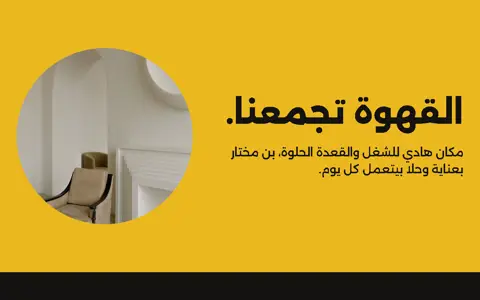
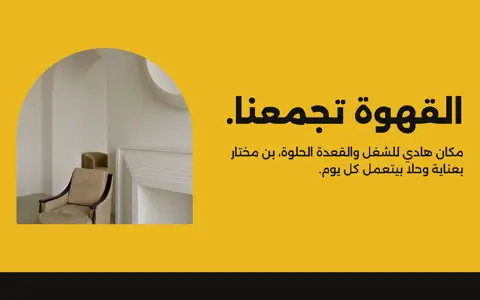
Factory: 9 more pieces after design-skill effects, a shape language (round, arch, sharp, soft, organic), real features

Changed region(s): [[0.25, 0.48, 0.4062, 0.75], [0.0312, 0.48, 0.1875, 0.75]]

diff --git a/weblume/factory/pieces/sections-skills.js b/weblume/factory/pieces/sections-skills.js
@@ -1,0 +1,157 @@
+/* Pieces written for Weblume after effect ideas in the design skills (React Bits effects, ui-ux-pro-max motion presets):
+   original vanilla code, the ideas only. Arabic is animated word by word, never letter by letter (letters must stay joined). */
+(function (P) {
+  var E = function (s) { return SITEKIT.esc(s); };
+  var img = function (src, alt, extra) { return src ? '<img src="' + E(src) + '" alt="' + E(alt || "") + '" loading="lazy"' + (extra || "") + ">" : ""; };
+  var words = function (text, cls) { // each word in its own span with a growing delay
+    return String(text || "").split(/\s+/).filter(Boolean).map(function (w, i) { return '<span class="' + cls + '" style="--w:' + i + '">' + E(w) + "</span>"; }).join(" ");
+  };
+  var items = function (S) { var a = []; (S.menu || []).forEach(function (c) { (c.items || []).forEach(function (i) { a.push(i); }); }); return a; };
+  var onScroll = function (fn) { var q = false; addEventListener("scroll", function () { if (!q) { q = true; requestAnimationFrame(function () { q = false; fn(); }); } }, {passive: true}); addEventListener("resize", fn); fn(); };
+
+  P["hero-arch"] = { // one photo in a tall arched window, the headline split above and below it
+    css: ".har{min-height:calc(100svh - var(--nav));display:grid;place-items:center;text-align:center;gap:clamp(14px,2.4vh,24px);padding:clamp(24px,5vh,56px) var(--gut)}" +
+      ".har h1{font-size:clamp(40px,7.4vw,124px);line-height:1}.har .win{width:min(70vw,360px);aspect-ratio:3/4;border-radius:999px 999px 24px 24px;overflow:hidden;background:var(--surface)}" +
+      ".har p{max-width:30em;color:var(--muted);font-size:var(--lead);line-height:1.4}@media (min-width:860px){.har{grid-template-columns:1fr auto 1fr;text-align:start}.har h1:last-of-type{text-align:end}.har p{grid-column:1/-1;text-align:center;margin-inline:auto}}",
+    render: function (S, t) {
+      var l = S.heroLines || [S.name, S.tagline], m = S.media || {};
+      return '<section class="har" id="top"><h1 class="rise">' + E(l[0]) + '</h1><div class="win rise" style="--i:1">' + img(m.heroImg, S.name) + '</div><h1 class="rise" style="--i:2">' +
+        E(l[1] || S.tagline || "") + '</h1><p class="rise" style="--i:3">' + E(S.lede) + ' <br><a class="btn a" style="margin-top:18px" href="#menu">' + t.see + "</a></p></section>";
+    }
+  };
+  P["hero-words"] = { // the headline arrives word by word, three round photos float around it
+    css: ".hwd{position:relative;min-height:calc(100svh - var(--nav));display:grid;place-items:center;text-align:center;padding:8vh var(--gut);overflow:hidden}" +
+      ".hwd h1{font-size:clamp(44px,8vw,140px);line-height:1.05;max-width:12em;position:relative;z-index:2;text-shadow:0 2px 30px var(--ink),0 0 2px var(--ink)}.hwd p{position:relative;z-index:2;margin-top:20px;font-size:var(--lead);color:var(--muted)}" +
+      ".hwd .wd{display:inline-block;opacity:0;transform:translateY(.4em);filter:blur(8px);transition:opacity .7s,transform .7s cubic-bezier(.2,.7,.2,1),filter .7s;transition-delay:calc(var(--w)*110ms)}" +
+      ".hwd.on .wd{opacity:1;transform:none;filter:none}.hwd figure{position:absolute;width:clamp(110px,16vw,240px);aspect-ratio:1;z-index:1;will-change:transform}" +
+      ".hwd figure:nth-of-type(1){top:4%;inset-inline-start:2%;opacity:.85}.hwd figure:nth-of-type(2){bottom:10%;inset-inline-start:14%;width:clamp(90px,11vw,170px)}.hwd figure:nth-of-type(3){bottom:6%;inset-inline-end:3%;width:clamp(120px,16vw,240px);opacity:.85}" +
+      "@media (max-width:700px){.hwd figure{opacity:.55}}@media (prefers-reduced-motion:reduce){.hwd .wd{opacity:1;transform:none;filter:none;transition:none}}",
+    render: function (S, t) {
+      var m = S.media || {}, ph = [m.heroImg].concat((m.gallery || []).map(function (g) { return g.src; })).filter(Boolean).slice(0, 3);
+      return '<section class="hwd" id="top"><div><h1>' + words((S.heroLines || [S.tagline]).join(" "), "wd") + "</h1><p>" + E(S.lede) +
+        '</p><p><a class="btn a" href="#menu">' + t.see + "</a></p></div>" + ph.map(function (p) { return '<figure class="disc">' + img(p, "") + "</figure>"; }).join("") + "</section>";
+    },
+    init: function () {
+      var s = document.querySelector(".hwd"); if (!s) return;
+      setTimeout(function () { s.classList.add("on"); }, 120);
+      var f = s.querySelectorAll("figure");
+      onScroll(function () { var y = scrollY; [].forEach.call(f, function (el, i) { el.style.transform = "translateY(" + (y * (i + 1) * -.08) + "px)"; }); });
+    }
+  };
+  P["hero-layers"] = { // three photos at different depths: they part as the page scrolls
+    css: ".hly{position:relative;height:160vh}.hly .stage{display:grid;place-items:center}.hly figure{position:absolute;border-radius:var(--r-card);overflow:hidden;background:var(--surface);will-change:transform}" +
+      ".hly .l1{width:min(46vw,560px);aspect-ratio:4/5;z-index:1}.hly .l2{width:min(28vw,320px);aspect-ratio:1;inset-inline-start:6%;top:18%;z-index:2}.hly .l3{width:min(24vw,280px);aspect-ratio:3/4;inset-inline-end:6%;bottom:12%;z-index:2}" +
+      ".hly .txt{position:relative;z-index:3;text-align:center;padding:0 var(--gut)}.hly h1{font-size:clamp(44px,8.6vw,150px);text-shadow:0 4px 40px #0009}.hly p{font-size:var(--lead);margin-top:14px;text-shadow:0 2px 20px #000a}" +
+      "@media (max-width:700px){.hly .l1{width:78vw}.hly .l2,.hly .l3{width:34vw}}",
+    render: function (S, t) {
+      var m = S.media || {}, g = (m.gallery || []).map(function (x) { return x.src; });
+      return '<section class="pin hly" id="top"><div class="stage"><figure class="l1">' + img(m.heroImg || g[0], S.name) + '</figure><figure class="l2">' + img(g[0] || m.heroImg, "") +
+        '</figure><figure class="l3">' + img(g[1] || m.heroImg, "") + '</figure><div class="txt"><h1>' + E((S.heroLines || [S.name])[0]) + "</h1><p>" + E(S.lede) +
+        '</p><p style="margin-top:22px"><a class="btn a" href="#menu">' + t.see + "</a></p></div></div></section>";
+    },
+    init: function () {
+      var K = SITEKIT, s = document.querySelector(".hly"); if (!s || K.reduce) return;
+      var l = s.querySelectorAll("figure"), dir = document.documentElement.dir === "rtl" ? -1 : 1;
+      onScroll(function () {
+        var p = K.progress(s);
+        l[0].style.transform = "scale(" + (1 + p * .15) + ")";
+        l[1].style.transform = "translate(" + (-dir * p * 18) + "vw," + (-p * 30) + "vh) rotate(" + (-p * 8) + "deg)";
+        l[2].style.transform = "translate(" + (dir * p * 18) + "vw," + (p * 30) + "vh) rotate(" + (p * 8) + "deg)";
+      });
+    }
+  };
+  P["about-badge"] = { // the about text beside a photo stamped with a slowly turning circular badge
+    css: ".abg{padding:clamp(72px,10vw,160px) var(--gut);display:grid;gap:clamp(32px,5vw,72px);align-items:center;background:var(--paper);color:var(--ink)}" +
+      ".abg .ph{position:relative;width:min(100%,520px);justify-self:center}.abg .ph figure{aspect-ratio:4/5;background:var(--surface)}" +
+      ".abg svg{position:absolute;width:clamp(120px,14vw,170px);inset-inline-end:-24px;top:-24px;animation:spin 18s linear infinite}" +
+      ".abg text{font:700 13px var(--text);letter-spacing:.18em;fill:var(--ink)}.abg circle{fill:var(--accent)}@keyframes spin{to{transform:rotate(360deg)}}" +
+      ".abg h2{color:var(--accent);font-size:var(--head)}.abg p{font:500 clamp(20px,2vw,30px)/1.5 var(--display);margin-top:18px;max-width:24em}" +
+      "@media (min-width:860px){.abg{grid-template-columns:5fr 7fr}}@media (prefers-reduced-motion:reduce){.abg svg{animation:none}}",
+    render: function (S, t) {
+      var m = S.media || {}, ring = (E(S.word || S.name) + " • " + E(S.tagline || "") + " • ").repeat(2);
+      return '<section class="abg" id="about"><div class="ph rise"><figure class="loop">' + img((m.about || {}).src || m.heroImg, S.name) +
+        '</figure><svg viewBox="0 0 200 200" aria-hidden="true"><circle cx="100" cy="100" r="100"/><path id="ring" fill="none" d="M100,100 m-72,0 a72,72 0 1,1 144,0 a72,72 0 1,1 -144,0"/>' +
+        '<text><textPath href="#ring">' + ring + '</textPath></text></svg></div><div><h2 class="rise">' + E(S.together || t.about) + '</h2><p class="rise" style="--i:1">' + E(S.about) + "</p></div></section>";
+    }
+  };
+  P["gallery-stack"] = { // pinned: photo cards slide up one over the other as you scroll
+    css: ".gst{height:340vh;background:var(--ink)}.gst .stage{display:grid;place-items:center}.gst h2{position:absolute;top:calc(var(--nav) + 2vh);inset-inline-start:var(--gut);z-index:9}" +
+      ".gst figure{position:absolute;width:min(84vw,860px);aspect-ratio:16/10;border-radius:var(--r-card);overflow:hidden;background:var(--surface);box-shadow:0 30px 80px #0008;will-change:transform}" +
+      "@media (max-width:700px){.gst figure{aspect-ratio:4/5;width:82vw}}",
+    render: function (S, t) {
+      var g = ((S.media || {}).gallery || []).slice(0, 5);
+      if (g.length < 3) return "";
+      return '<section class="pin gst" id="gallery"><div class="stage"><h2>' + t.gallery + "</h2>" + g.map(function (p, i) { return '<figure style="z-index:' + (i + 1) + '">' + img(p.src, p.alt) + "</figure>"; }).join("") + "</div></section>";
+    },
+    init: function () {
+      var K = SITEKIT, s = document.querySelector(".gst"); if (!s) return;
+      var f = s.querySelectorAll("figure"), n = f.length;
+      onScroll(function () {
+        var p = K.progress(s) * (n - 1);
+        [].forEach.call(f, function (el, i) {
+          var d = i - p; // > 0: still below, waiting; 0: in front; < 0: covered and shrinking back
+          el.style.transform = d > 0 ? "translateY(" + Math.min(d, 1) * 110 + "vh)" : "translateY(" + d * 3 + "vh) scale(" + (1 + d * .06) + ")";
+          el.style.filter = d < -.1 ? "brightness(" + Math.max(.4, 1 + d * .3) + ")" : "";
+        });
+      });
+    }
+  };
+  P["menu-flip"] = { // menu cards that turn over (tap or hover) to show what is in the dish and its price
+    css: ".mfl{padding:clamp(64px,9vw,140px) var(--gut);background:var(--ink)}.mfl h2{font-size:var(--giant);line-height:1;margin-bottom:clamp(24px,4vw,56px)}" +
+      ".mfl .grid{display:grid;grid-template-columns:repeat(auto-fill,minmax(min(100%,220px),1fr));gap:14px}" +
+      ".mfl button{all:unset;cursor:pointer;display:block;aspect-ratio:3/4;perspective:900px}.mfl .in{position:relative;width:100%;height:100%;transition:transform .7s cubic-bezier(.2,.7,.2,1);transform-style:preserve-3d}" +
+      ".mfl button:hover .in,.mfl button[aria-pressed=true] .in{transform:rotateY(180deg)}.mfl button:focus-visible{outline:3px solid var(--accent);outline-offset:4px}" +
+      ".mfl .f,.mfl .b{position:absolute;inset:0;border-radius:var(--r-card);overflow:hidden;backface-visibility:hidden;background:var(--surface)}" +
+      ".mfl .f b{position:absolute;inset:auto 0 0;padding:14px 16px;font:700 20px/1.3 var(--display);background:linear-gradient(transparent,#000b);color:#fff}" +
+      ".mfl .b{transform:rotateY(180deg);display:flex;flex-direction:column;justify-content:center;gap:10px;padding:22px;background:var(--accent);color:var(--on-accent)}" +
+      ".mfl .b b{font:800 22px/1.3 var(--display)}.mfl .b i{font-style:normal;font-weight:800;font-size:22px}@media (prefers-reduced-motion:reduce){.mfl .in{transition:none}}",
+    render: function (S, t) {
+      return '<section class="mfl" id="menu"><h2 class="rise">' + t.menu + '</h2><div class="grid">' + items(S).map(function (i, k) {
+        return '<button type="button" class="rise" style="--i:' + (k % 4) + '" aria-pressed="false" aria-label="' + E(i.name) + '"><div class="in"><div class="f">' + img(i.img, i.name) + "<b>" + E(i.name) +
+          '</b></div><div class="b"><b>' + E(i.name) + "</b>" + (i.desc ? "<span>" + E(i.desc) + "</span>" : "") + (i.price ? "<i>" + E(i.price) + t.cur + "</i>" : "") + "</div></div></button>";
+      }).join("") + "</div></section>";
+    },
+    init: function () {
+      [].forEach.call(document.querySelectorAll(".mfl button"), function (b) { b.addEventListener("click", function () { b.setAttribute("aria-pressed", b.getAttribute("aria-pressed") !== "true"); }); });
+    }
+  };
+  P["menu-polaroid"] = { // dishes as tilted instant photos on the page, straightening when you point at them
+    css: ".mpl{padding:clamp(64px,9vw,140px) var(--gut);background:var(--paper);color:var(--ink)}.mpl h2{font-size:var(--giant);line-height:1;margin-bottom:clamp(28px,4vw,64px)}" +
+      ".mpl .grid{display:grid;grid-template-columns:repeat(auto-fill,minmax(min(100%,230px),1fr));gap:clamp(18px,3vw,40px)}" +
+      ".mpl article{background:#fff;padding:12px 12px 18px;box-shadow:0 14px 40px #0002;transform:rotate(var(--t));transition:transform .4s}.mpl article:hover{transform:rotate(0) scale(1.03)}" +
+      ".mpl figure{aspect-ratio:1;background:#eee}.mpl b{display:block;font:700 19px/1.3 var(--display);margin-top:12px}.mpl small{color:#666}.mpl i{float:inline-end;font-style:normal;font-weight:800;color:var(--accent)}",
+    render: function (S, t) {
+      var tilt = [-3, 2, -1.5, 3, -2.5, 1.5];
+      return '<section class="mpl" id="menu"><h2 class="rise">' + t.menu + '</h2><div class="grid">' + items(S).map(function (i, k) {
+        return '<article class="rise" style="--t:' + tilt[k % 6] + "deg;--i:" + (k % 4) + '"><figure>' + img(i.img, i.name) + "</figure><b>" + E(i.name) +
+          (i.price ? "<i>" + E(i.price) + t.cur + "</i>" : "") + "</b>" + (i.desc ? "<small>" + E(i.desc) + "</small>" : "") + "</article>";
+      }).join("") + "</div></section>";
+    }
+  };
+  P["features-bento"] = { // a bento board of the place's real strengths (from data "features"), one tile is a photo
+    css: ".bnt{padding:clamp(64px,9vw,140px) var(--gut);background:var(--ink)}.bnt .board{display:grid;gap:12px;grid-template-columns:repeat(2,1fr)}" +
+      ".bnt .tile{border-radius:var(--r-card);padding:clamp(20px,2.6vw,36px);background:var(--surface);min-height:170px;display:flex;flex-direction:column;justify-content:flex-end}" +
+      ".bnt .tile b{font:800 clamp(22px,2.4vw,36px)/1.15 var(--display)}.bnt .tile:nth-child(2){background:var(--accent);color:var(--on-accent)}.bnt .tile.ph{padding:0;overflow:hidden;min-height:240px}" +
+      "@media (min-width:860px){.bnt .board{grid-template-columns:repeat(4,1fr);grid-auto-rows:200px}.bnt .tile.ph{grid-column:span 2;grid-row:span 2}.bnt .tile:nth-child(2){grid-column:span 2}}",
+    render: function (S) {
+      var f = (S.features || []).slice(0, 4), m = S.media || {};
+      if (f.length < 2) return "";
+      return '<section class="bnt" id="why"><div class="board"><div class="tile ph rise">' + img((m.gallery || [])[0] ? m.gallery[0].src : m.heroImg, S.name) + "</div>" +
+        f.map(function (x, i) { return '<div class="tile rise" style="--i:' + (i + 1) + '"><b>' + E(x) + "</b></div>"; }).join("") + "</div></section>";
+    }
+  };
+  P["cta-blur"] = { // a big invitation whose words come out of the blur as it scrolls in, then the WhatsApp button
+    css: ".ctb{padding:clamp(90px,14vw,220px) var(--gut);text-align:center;background:var(--accent);color:var(--on-accent)}.ctb h2{font-size:clamp(40px,7vw,120px);max-width:12em;margin:0 auto 32px}" +
+      ".ctb .bw{display:inline-block;opacity:.08;filter:blur(10px);transition:opacity .8s,filter .8s;transition-delay:calc(var(--w)*120ms)}.ctb.on .bw{opacity:1;filter:none}" +
+      "@media (prefers-reduced-motion:reduce){.ctb .bw{opacity:1;filter:none;transition:none}}",
+    render: function (S, t) {
+      return '<section class="ctb" id="invite"><h2>' + words(S.invite || S.tagline, "bw") + '</h2><a class="btn w" href="' + SITEKIT.wa(t.lang === "en" ? "Hello" : "أهلاً، عايز أطلب") +
+        '" target="_blank" rel="noopener noreferrer">' + t.wa + "</a></section>";
+    },
+    init: function () {
+      var s = document.querySelector(".ctb"); if (!s) return;
+      if (!("IntersectionObserver" in window)) return s.classList.add("on");
+      new IntersectionObserver(function (es, o) { if (es[0].isIntersecting) { s.classList.add("on"); o.disconnect(); } }, {threshold: .35}).observe(s);
+    }
+  };
+})(window.PIECES = window.PIECES || {});

diff --git a/weblume/factory/pieces/sections-award.js b/weblume/factory/pieces/sections-award.js
@@ -29,7 +29,7 @@
   };
   P["hero-card-room"] = { // "card over a dim room": the place, darkened, with an invitation card in the middle
     css: ".hcr{position:relative;min-height:calc(100svh - var(--nav));display:grid;place-items:center;padding:6vh var(--gut);overflow:hidden;background:var(--surface)}" +
-      ".hcr>img{position:absolute;inset:0;filter:brightness(.6)}.hcr .card{position:relative;background:var(--paper);color:var(--ink);border-radius:28px;padding:clamp(28px,4vw,56px);max-width:560px;text-align:center}" +
+      ".hcr>img{position:absolute;inset:0;filter:brightness(.6)}.hcr .card{position:relative;background:var(--paper);color:var(--ink);border-radius:var(--r-card);padding:clamp(28px,4vw,56px);max-width:560px;text-align:center}" +
       ".hcr h1{font-size:clamp(40px,6vw,88px)}.hcr p{margin:14px auto 24px;max-width:24em;color:color-mix(in srgb,var(--ink) 70%,transparent)}.hcr .btn.o{color:var(--ink)}" +
       ".hcr .acts{display:flex;flex-wrap:wrap;justify-content:center;gap:10px}",
     render: function (S, t) {
@@ -68,11 +68,11 @@
     }
   };
   P["menu-sticky-photo"] = { // "menu column beside a sticky photo": the list scrolls, the photo stays
-    css: ".msp{display:grid;gap:12px;padding:12px;background:var(--ink)}.msp .list{background:var(--surface);border-radius:20px;padding:clamp(28px,4vw,64px)}" +
+    css: ".msp{display:grid;gap:12px;padding:12px;background:var(--ink)}.msp .list{background:var(--surface);border-radius:var(--r-card);padding:clamp(28px,4vw,64px)}" +
       ".msp h2{font-size:var(--head);margin-bottom:24px}.msp h3{color:var(--accent);font-size:var(--lead);margin:28px 0 8px}" +
       ".msp .it{display:flex;justify-content:space-between;gap:16px;padding:10px 0;border-bottom:1px dashed color-mix(in srgb,var(--muted) 40%,transparent)}" +
       ".msp .it small{display:block;color:var(--muted)}.msp .it i{font-style:normal;font-weight:700;color:var(--accent);white-space:nowrap}" +
-      ".msp figure{border-radius:20px;overflow:hidden;background:var(--surface);min-height:50vh}@media (min-width:860px){.msp{grid-template-columns:1fr 1fr}.msp figure{position:sticky;top:calc(var(--nav) + 12px);height:calc(100svh - var(--nav) - 24px)}}",
+      ".msp figure{border-radius:var(--r-card);overflow:hidden;background:var(--surface);min-height:50vh}@media (min-width:860px){.msp{grid-template-columns:1fr 1fr}.msp figure{position:sticky;top:calc(var(--nav) + 12px);height:calc(100svh - var(--nav) - 24px)}}",
     render: function (S, t) {
       var m = S.media || {};
       return '<section class="msp" id="menu"><div class="list"><h2>' + t.menu + "</h2>" + (S.menu || []).map(function (c) {
@@ -86,7 +86,7 @@
   P["menu-tiles"] = { // "specimen catalogue": every item alone on a flat tile, same scale, named plainly
     css: ".mtl{padding:clamp(64px,9vw,140px) var(--gut);background:var(--paper);color:var(--ink)}.mtl h2{font-size:var(--giant);line-height:1;margin-bottom:clamp(24px,4vw,56px)}" +
       ".mtl .grid{display:grid;grid-template-columns:repeat(auto-fill,minmax(min(100%,230px),1fr));gap:12px}" +
-      ".mtl article{border-radius:18px;overflow:hidden;background:color-mix(in srgb,var(--accent) 14%,var(--paper))}.mtl article:nth-child(3n+2){background:color-mix(in srgb,var(--accent) 26%,var(--paper))}" +
+      ".mtl article{border-radius:var(--r-card);overflow:hidden;background:color-mix(in srgb,var(--accent) 14%,var(--paper))}.mtl article:nth-child(3n+2){background:color-mix(in srgb,var(--accent) 26%,var(--paper))}" +
       ".mtl figure{aspect-ratio:1}.mtl article div{padding:14px 16px 18px}.mtl b{font:700 19px/1.3 var(--display)}.mtl small{display:block;color:color-mix(in srgb,var(--ink) 60%,transparent)}" +
       ".mtl i{display:block;font-style:normal;font-weight:700;margin-top:6px}",
     render: function (S, t) {
@@ -100,7 +100,7 @@
   };
   P["gallery-sheet"] = { // "contact sheet": columns of photos at their natural shapes, like a photographer's sheet
     css: ".gsh{padding:clamp(64px,9vw,140px) 12px;background:var(--ink)}.gsh h2{padding-inline:calc(var(--gut) - 12px);margin-bottom:24px}" +
-      ".gsh .cols{columns:2 160px;column-gap:12px}.gsh figure{break-inside:avoid;margin-bottom:12px;border-radius:14px;overflow:hidden;background:var(--surface)}.gsh img{height:auto}" +
+      ".gsh .cols{columns:2 160px;column-gap:12px}.gsh figure{break-inside:avoid;margin-bottom:12px;border-radius:var(--r-card);overflow:hidden;background:var(--surface)}.gsh img{height:auto}" +
       "@media (min-width:860px){.gsh .cols{columns:4}}",
     render: function (S, t) {
       var g = (S.media || {}).gallery || [];
@@ -112,7 +112,7 @@
   P["steps-order"] = { // how ordering works, in three real steps (no invented numbers)
     css: ".sto{background:var(--surface);padding:clamp(64px,9vw,140px) var(--gut)}.sto h2{margin-bottom:clamp(24px,4vw,48px)}" +
       ".sto ol{list-style:none;display:grid;gap:12px;counter-reset:s}@media (min-width:860px){.sto ol{grid-template-columns:repeat(3,1fr)}}" +
-      ".sto li{background:var(--ink);border-radius:22px;padding:28px;counter-increment:s}.sto li::before{content:counter(s);display:block;font:800 clamp(48px,6vw,88px)/1 var(--display);color:var(--accent);margin-bottom:12px}" +
+      ".sto li{background:var(--ink);border-radius:var(--r-card);padding:28px;counter-increment:s}.sto li::before{content:counter(s);display:block;font:800 clamp(48px,6vw,88px)/1 var(--display);color:var(--accent);margin-bottom:12px}" +
       ".sto b{font:700 var(--lead)/1.25 var(--display)}.sto p{color:var(--muted);margin-top:6px}",
     render: function (S, t) {
       var ar = t.lang !== "en", st = ar ? [["اختار من المنيو", "شوف الأصناف والأسعار"], ["ابعتلنا على واتساب", "اكتب طلبك أو احجز ترابيزة"], ["استلم أو تعالى", "نجهزه في معاده"]]

diff --git a/weblume/factory/base.css b/weblume/factory/base.css
@@ -11,15 +11,21 @@ h1,h2,h3{font-family:var(--display);font-weight:800;line-height:1.12}
 h1,h2{font-size:var(--head)}
 html[dir=ltr] h1,html[dir=ltr] h2{letter-spacing:-.03em}
 :focus-visible{outline:3px solid var(--accent);outline-offset:3px}
-.btn{display:inline-flex;align-items:center;justify-content:center;min-height:52px;padding:0 28px;border-radius:999px;font:700 var(--body) var(--text);border:0;cursor:pointer;transition:transform .2s,background .2s,color .2s}
+.btn{display:inline-flex;align-items:center;justify-content:center;min-height:52px;padding:0 28px;border-radius:var(--r-btn);font:700 var(--body) var(--text);border:0;cursor:pointer;transition:transform .2s,background .2s,color .2s}
 .btn:hover{transform:translateY(-2px)}.btn:active{transform:scale(.97)}
 .btn.a{background:var(--accent);color:var(--on-accent)}.btn.a:hover{background:var(--paper);color:var(--ink)}
 .btn.w{background:var(--paper);color:var(--ink)}.btn.w:hover{background:var(--accent);color:var(--on-accent)}
 .btn.o{background:none;color:inherit;box-shadow:inset 0 0 0 2px currentColor}
 .pin{position:relative}
 .stage{position:sticky;top:0;height:100svh;overflow:hidden}
-.loop{border-radius:999px;overflow:hidden}
-.disc{border-radius:50%;overflow:hidden}
+/* the site's shape language (data.js "shape"): every photo frame, card and button follows it */
+:root{--r-card:22px;--r-btn:999px;--r-loop:999px;--r-disc:50%}
+html[data-shape=arch]{--r-card:200px 200px 18px 18px;--r-loop:999px 999px 24px 24px;--r-disc:999px 999px 24px 24px}
+html[data-shape=sharp]{--r-card:0;--r-btn:0;--r-loop:0;--r-disc:0}
+html[data-shape=soft]{--r-card:32px;--r-btn:16px;--r-loop:40px;--r-disc:40px}
+html[data-shape=organic]{--r-card:42% 58% 52% 48% / 38% 46% 54% 62%;--r-loop:62% 38% 46% 54% / 60% 44% 56% 40%;--r-disc:58% 42% 38% 62% / 46% 56% 44% 54%}
+.loop{border-radius:var(--r-loop);overflow:hidden}
+.disc{border-radius:var(--r-disc);overflow:hidden}
 @media (prefers-reduced-motion:no-preference){
   .js .rise{opacity:0;transform:translateY(24px);transition:opacity .7s ease,transform .7s cubic-bezier(.2,.7,.2,1);transition-delay:calc(var(--i,0)*80ms)}
   .js .rise.in{opacity:1;transform:none}

diff --git a/weblume/factory/pieces/sections-own.js b/weblume/factory/pieces/sections-own.js
@@ -3,7 +3,7 @@
   P["hero-split"] = { // a big headline beside one strong photo; for places without footage
     css: ".hs{min-height:calc(100svh - var(--nav));display:grid;align-items:center;gap:clamp(24px,5vw,72px);padding:clamp(32px,6vh,72px) var(--gut)}" +
       ".hs h1 span{display:block}.hs p{font-size:var(--lead);line-height:1.4;color:var(--muted);margin-top:20px;max-width:24em}.hs .acts{display:flex;flex-wrap:wrap;gap:12px;margin-top:28px}" +
-      ".hs figure{aspect-ratio:4/5;border-radius:32px;overflow:hidden;background:var(--surface)}@media (min-width:860px){.hs{grid-template-columns:7fr 5fr}}",
+      ".hs figure{aspect-ratio:4/5;border-radius:var(--r-card);overflow:hidden;background:var(--surface)}@media (min-width:860px){.hs{grid-template-columns:7fr 5fr}}",
     render: function (S, t) {
       var K = SITEKIT, lines = S.heroLines || [S.tagline || S.name], img = (S.media || {}).heroImg;
       return '<section class="hs" id="top"><div><h1 class="rise">' + lines.map(function (l) { return "<span>" + K.esc(l) + "</span>"; }).join("") + "</h1>" +
@@ -16,7 +16,7 @@
     css: ".mrow{padding:clamp(64px,9vw,140px) 0;background:var(--ink)}.mrow>h2{padding-inline:var(--gut);font-size:var(--giant);line-height:1;margin-bottom:clamp(24px,4vw,56px)}" +
       ".mrow h3{padding-inline:var(--gut);font-size:var(--lead);color:var(--accent);margin:32px 0 14px}" +
       ".mrow .row{display:flex;gap:16px;overflow-x:auto;padding:0 var(--gut) 8px;scroll-snap-type:x mandatory;scrollbar-width:thin}" +
-      ".mrow article{flex:0 0 clamp(220px,24vw,300px);scroll-snap-align:start;background:var(--surface);border-radius:22px;overflow:hidden}" +
+      ".mrow article{flex:0 0 clamp(220px,24vw,300px);scroll-snap-align:start;background:var(--surface);border-radius:var(--r-card);overflow:hidden}" +
       ".mrow article figure{aspect-ratio:4/3;background:#2a2622}.mrow article div{padding:14px 16px 18px}.mrow b{font:700 20px/1.3 var(--display)}" +
       ".mrow p{color:var(--muted);font-size:var(--small);margin-top:4px}.mrow i{display:block;font-style:normal;font-weight:700;color:var(--accent);margin-top:8px}",
     render: function (S, t) {

diff --git a/weblume/factory/pieces/sections-loopie.js b/weblume/factory/pieces/sections-loopie.js
@@ -84,7 +84,7 @@
     css: ".visit{background:var(--paper);color:var(--ink);padding:clamp(72px,10vw,160px) var(--gut);display:grid;gap:40px;align-items:center}" +
       ".addr{font:800 var(--lead)/1.3 var(--display);margin-top:18px;max-width:20em}.days{width:100%;max-width:360px;border-collapse:collapse;margin-top:14px}.days td{padding:3px 0}.days td:last-child{text-align:end}" +
       ".visit .acts{display:flex;flex-wrap:wrap;gap:12px;margin-top:28px}.visit .btn.o{color:var(--ink)}" +
-      ".map{aspect-ratio:4/3;width:100%;border:0;border-radius:24px;background:#ddd}@media (min-width:860px){.visit{grid-template-columns:1fr 1fr;gap:64px}}",
+      ".map{aspect-ratio:4/3;width:100%;border:0;border-radius:var(--r-card);background:#ddd}@media (min-width:860px){.visit{grid-template-columns:1fr 1fr;gap:64px}}",
     render: function (S, t) {
       var K = SITEKIT, q = encodeURIComponent(S.maps || S.address || S.name);
       return '<section class="visit" id="visit"><div><h2 class="rise">' + t.visit + "</h2>" + (S.address ? '<p class="addr rise" style="--i:1">' + K.esc(S.address) + "</p>" : "") +

diff --git a/weblume/factory/runtime.js b/weblume/factory/runtime.js
@@ -7,6 +7,7 @@
   var lang = (new URLSearchParams(location.search).get("lang") || store("site-lang") || S.lang || "ar") === "en" && S.en ? "en" : "ar";
   if (lang === "en") Object.keys(S.en).forEach(function (k) { S[k] = S.en[k]; });
   document.documentElement.lang = lang; document.documentElement.dir = lang === "en" ? "ltr" : "rtl";
+  if (S.shape) document.documentElement.dataset.shape = S.shape; // arch | sharp | round | soft | organic
   var UI = {
     ar: {menu: "المنيو", visit: "زورونا", gallery: "الأجواء", about: "عننا", wa: "واتساب", open: "القائمة", close: "إغلاق",
          other: "English", see: "شوف المنيو", order: "اطلب دلوقتي", directions: "الاتجاهات", maps: "افتح في خرائط جوجل",

diff --git a/weblume/factory/__init__.py b/weblume/factory/__init__.py
@@ -44,7 +44,7 @@ def examples(n: int = 2) -> str:
 HERE = Path(__file__).parent
 PIECES = HERE / "pieces"
 MANIFEST = json.loads((PIECES / "manifest.json").read_text(encoding="utf-8"))
-ORDER = ["nav", "hero", "band", "about", "menu", "how", "cta", "gallery", "contact", "footer", "mobile-bar"]  # a piece type's place on the page
+ORDER = ["nav", "hero", "band", "about", "features", "menu", "how", "cta", "gallery", "contact", "footer", "mobile-bar"]  # a piece type's place on the page
 LENIS = "https://cdn.jsdelivr.net/npm/lenis@1.1.13/dist/lenis.min.js"
 SA = ["الرياض", "جدة", "جده", "الدمام", "مكة", "المدينة", "الخبر", "أبها", "الطائف", "السعودية", "riyadh", "jeddah", "saudi"]
 EG = ["القاهرة", "الاسكندرية", "الإسكندرية", "المنصورة", "الجيزة", "طنطا", "مصر", "cairo", "egypt", "alexandria"]
@@ -53,6 +53,8 @@ SCHEMA = """{
  "name": "full business name", "word": "one short brand word (for the logo text and the footer)",
  "kind": "restaurant | cafe | sweets | bakery | clinic | shop | gym | salon | company",
  "style": "luxury | bold | simple | playful | heritage | modern",
+ "shape": "the shape of photos, cards and buttons: round | arch | sharp | soft | organic (pick what suits the place)",
+ "features": ["2 to 4 real strengths from the request, 2-4 words each (delivery, open late, family hall…); empty if none are known"],
  "tagline": "6 words max", "heroLines": ["2 or 3 short lines, the headline"], "lede": "one sentence under the headline",
  "about": "two sentences: who it's for and why choose it", "together": "a short warm line above the about text",
  "invite": "one short line inviting people to come", "caps": ["3 or 4 one-word scene captions for the hero footage, optional"],
@@ -214,6 +216,8 @@ def normalize(d: dict, request: str, country: str) -> dict:
     d["caps"] = [c for c in d.get("caps") or [] if arabic(c)]  # an Arabic site: no English words over the footage
     d["heroLines"] = [h for h in d.get("heroLines") or [] if arabic(h)] or d.get("heroLines")
     d["colors"] = palette(d.get("colors"))
+    d["shape"] = d.get("shape") if d.get("shape") in ("round", "arch", "sharp", "soft", "organic") else "round"
+    d["features"] = [str(x)[:40] for x in d.get("features") or [] if str(x).strip()][:4]
     f = d.get("fonts") or {}
     d["fonts"] = {"display": f.get("display") if f.get("display") in FONTS_OK else "Alexandria",  # no Kufi display fonts (the owner's taste)
                   "text": f.get("text") if f.get("text") in FONTS_OK else "IBM Plex Sans Arabic"}

diff --git a/weblume/factory/media.py b/weblume/factory/media.py
@@ -217,11 +217,15 @@ def swap(data: dict):
              "hero-split": "" if photo else "hero-waterline", "hero-name-photo": "" if photo else "hero-waterline",
              "hero-card-room": "" if photo else "hero-waterline", "hero-film-title": "" if photo or m.get("video") else "hero-waterline",
              "menu-rows": "" if has_items >= 4 else "menu-cols", "menu-tiles": "" if has_items >= 4 else "menu-cols",
-             "menu-sticky-photo": "" if photo or m.get("about") else "menu-cols"}
+             "menu-sticky-photo": "" if photo or m.get("about") else "menu-cols",
+             "menu-flip": "" if has_items >= 4 else "menu-cols", "menu-polaroid": "" if has_items >= 4 else "menu-cols",
+             "hero-arch": "" if photo else "hero-waterline", "hero-words": "" if photo else "hero-waterline",
+             "hero-layers": "" if photo and len(m.get("gallery") or []) >= 2 else ("hero-split" if photo else "hero-waterline")}
     data["pieces"] = [rules.get(p) or p for p in ps]
     if m.get("frames"):  # footage came: the scroll-played hero (Loopie's signature) is the strongest opening
         data["pieces"] = ["hero-frames" if p.startswith("hero-") else p for p in data["pieces"]]
     for p, ok in (("gallery-track", len(m.get("gallery") or []) >= 3), ("gallery-sheet", len(m.get("gallery") or []) >= 3),
+                  ("gallery-stack", len(m.get("gallery") or []) >= 3), ("features-bento", len(data.get("features") or []) >= 2),
                   ("invite-video", m.get("video") or m.get("poster"))):
         if p in data["pieces"] and not ok:
             data["pieces"].remove(p)

diff --git a/weblume/factory/test_pieces.py b/weblume/factory/test_pieces.py
@@ -21,6 +21,7 @@ DEMO = {
         {"cat": "الحلا", "img": "assets/img/menu-dessert.webp", "items": [
             {"name": "تشيز كيك", "desc": "توت", "price": "22", "img": "assets/img/mood-cup.webp"},
             {"name": "ماتشا", "desc": "ماتشا · حليب", "price": "20", "img": "assets/img/drink-green.webp"}]}],
+    "features": ["قهوة مختصة", "مفتوح لآخر الليل", "جلسات عائلية"], "shape": "arch",
     "address": "الرياض، حي العليا", "maps": "Riyadh Olaya", "whatsapp": "966500000000", "country": "SA", "currency": "ر.س", "lang": "ar", "review": [],
     "media": {"frames": {"d": "assets/frames-d/", "m": "assets/frames-m/", "n": 162}, "video": "assets/clip.mp4", "poster": "assets/poster.webp",
               "heroImg": "assets/img/mood-hall.webp", "about": {"src": "assets/img/mood-chair.webp", "alt": "ركن"},

diff --git a/tests/test_rules.py b/tests/test_rules.py
@@ -347,7 +347,7 @@ from weblume.factory import media as _fm  # noqa: E402
 _s = {"pieces": ["nav", "hero-frames", "menu-tiles", "gallery-sheet", "invite-video", "visit"], "media": {}, "menu": []}
 _fm.swap(_s)
 assert _s["pieces"] == ["nav", "hero-waterline", "menu-cols", "visit"], _s["pieces"]
-assert len(_fac.MANIFEST) == 21 and all((_fac.PIECES / v["file"]).is_file() for v in _fac.MANIFEST.values())
+assert len(_fac.MANIFEST) == 30 and all((_fac.PIECES / v["file"]).is_file() for v in _fac.MANIFEST.values())
 
 # Stock media must match the search: a scrapyard is not "nutella"
 assert not _fm._relevant("scrap, metal, recycling", "warm nutella waffle dessert making process") and _fm._relevant("chocolate, dessert", "nutella dessert")
